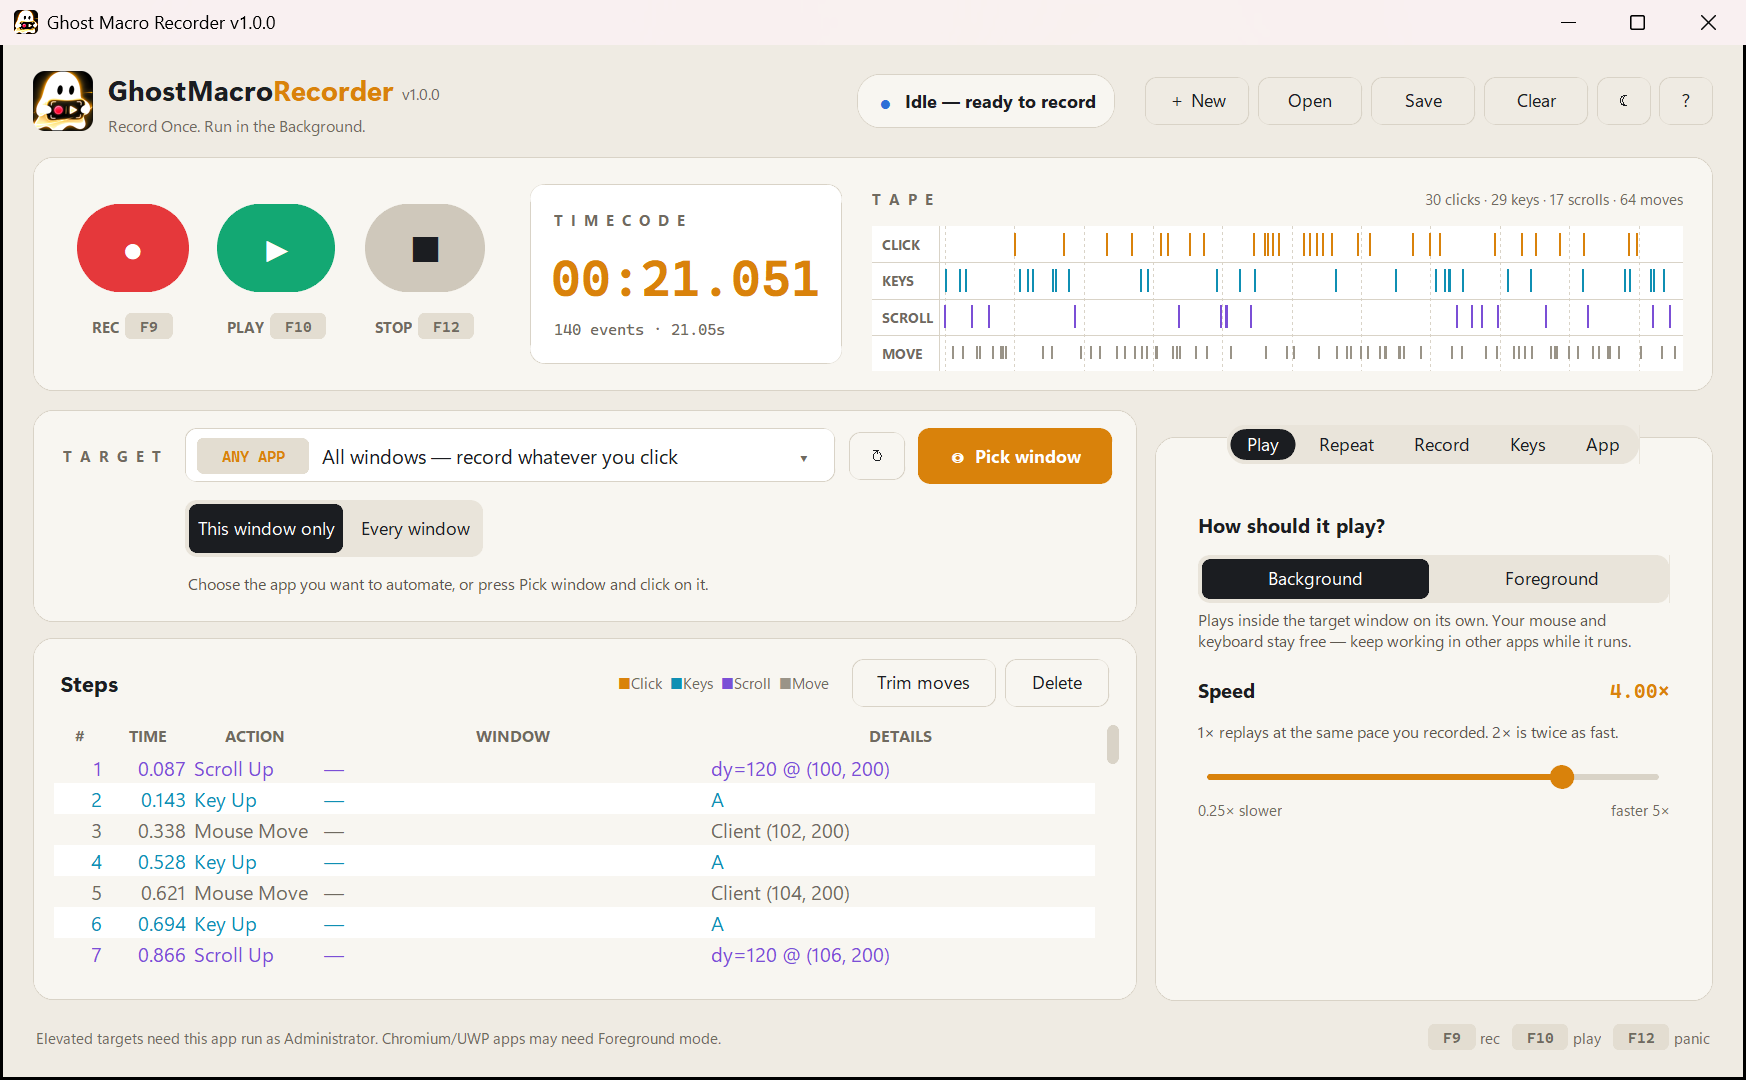
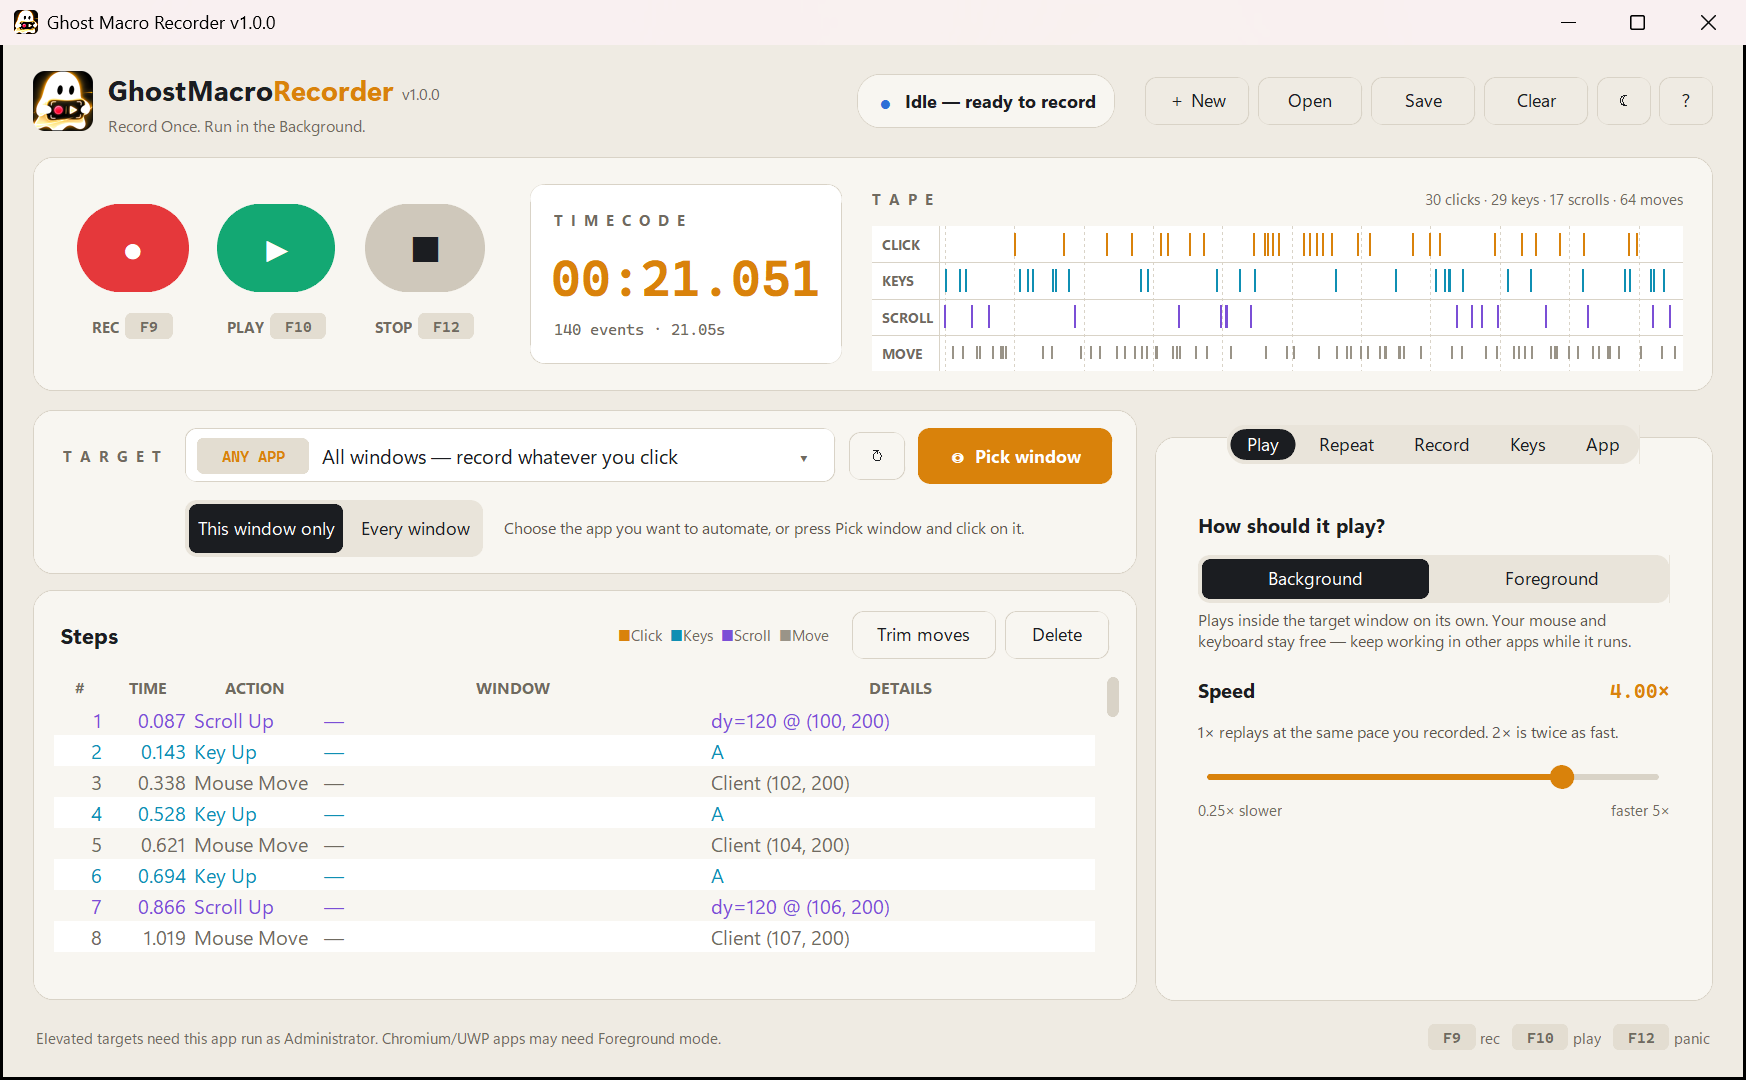
Tidier layout: compact target bar, settings sized to content
- Target bar: scope switch and its hint share one row (no empty gap)
- Settings card sizes to its tallest tab and lines up with the Steps card
- "This run" summary card (macro, steps, target, engine, runs) fills spare
  space under the settings on tall windows

diff --git a/src/ui.py b/src/ui.py
@@ -762,8 +762,11 @@ class MacroRecorderApp(ctk.CTk):
         self.scope_var = ctk.StringVar(
             value="This window only" if self.settings.record_scope == "target" else "Every window"
         )
+        scope_row = ctk.CTkFrame(strip, fg_color="transparent")
+        scope_row.grid(row=1, column=1, columnspan=3, padx=4, pady=(8, 12), sticky="ew")
+        scope_row.grid_columnconfigure(1, weight=1)
         self.seg_scope = ctk.CTkSegmentedButton(
-            strip,
+            scope_row,
             values=["This window only", "Every window"],
             variable=self.scope_var,
             command=self._on_settings_changed,
@@ -771,23 +774,24 @@ class MacroRecorderApp(ctk.CTk):
             corner_radius=8,
             font=self._font(12),
         )
-        self.seg_scope.grid(row=1, column=1, columnspan=3, padx=4, pady=(8, 0), sticky="w")
+        self.seg_scope.grid(row=0, column=0, sticky="w")
         self._style_segmented(self.seg_scope)
 
         self.lbl_target_hint = ctk.CTkLabel(
-            strip,
+            scope_row,
             text="",
             font=self._font(11),
             text_color=C["hint"],
             anchor="w",
             justify="left",
         )
-        self.lbl_target_hint.grid(row=2, column=1, columnspan=3, padx=6, pady=(4, 12), sticky="ew")
-        strip.bind("<Configure>", lambda e: self.lbl_target_hint.configure(
-            wraplength=max(200, int(e.width / self._get_window_scaling()) - 190)), add="+")
+        self.lbl_target_hint.grid(row=0, column=1, padx=(14, 4), sticky="ew")
+        scope_row.bind("<Configure>", lambda e: self.lbl_target_hint.configure(
+            wraplength=max(160, int(e.width / self._get_window_scaling()) - 280)), add="+")
         self._update_target_hint()
 
     def _update_target_hint(self) -> None:
+        self._update_summary()
         t = self._selected_target
         scope_target = self.scope_var.get() == "This window only"
         if t is None:
@@ -913,8 +917,12 @@ class MacroRecorderApp(ctk.CTk):
         self.lbl_empty.place(relx=0.5, rely=0.5, anchor="center")
 
         # --- Settings tabs (fixed, no scrolling) -----------------------------
+        self._right = ctk.CTkFrame(body, fg_color="transparent")
+        self._right.grid(row=0, column=1, padx=(12, 0), sticky="nsew")
+        self._right.grid_columnconfigure(0, weight=1)
+        self._right.grid_rowconfigure(1, weight=1)
         self.tabs = ctk.CTkTabview(
-            body,
+            self._right,
             width=372,
             corner_radius=14,
             fg_color=C["panel"],
@@ -928,7 +936,7 @@ class MacroRecorderApp(ctk.CTk):
             text_color=C["text"],
             command=lambda: self._repaint_segment_text(self.tabs._segmented_button),  # noqa: SLF001
         )
-        self.tabs.grid(row=0, column=1, padx=(12, 0), pady=(0, 0), sticky="nsew")
+        self.tabs.grid(row=0, column=0, sticky="new")
         self.tabs._segmented_button.configure(font=self._font(12))  # noqa: SLF001
         pages = {}
         for name in ("Play", "Repeat", "Record", "Keys", "App"):
@@ -937,6 +945,7 @@ class MacroRecorderApp(ctk.CTk):
             pages[name] = page
         self._repaint_segment_text(self.tabs._segmented_button)  # noqa: SLF001
 
+        self._build_summary_card()
         self._build_play_tab(pages["Play"])
         self._build_repeat_tab(pages["Repeat"])
         self._build_record_tab(pages["Record"])
@@ -944,6 +953,69 @@ class MacroRecorderApp(ctk.CTk):
         self._build_app_tab(pages["App"])
 
     WRAP = 320
+
+    SUMMARY_ROWS = (("macro", "Macro"), ("steps", "Steps"), ("target", "Target"), ("engine", "Plays"),
+                    ("runs", "Runs"))
+
+    def _build_summary_card(self) -> None:
+        """'This run' card: fills the space under the settings with what will actually happen."""
+        card = self._card(self._right)
+        card.grid(row=1, column=0, pady=(10, 0), sticky="nsew")
+        card.grid_columnconfigure(1, weight=1)
+        self.summary_card = card
+        self._summary_shown = True
+        self.after(10, self._place_summary)
+        self._eyebrow(card, "this run").grid(row=0, column=0, columnspan=2, padx=18, pady=(14, 6), sticky="w")
+        self.summary_vals: dict[str, ctk.CTkLabel] = {}
+        for i, (key, label) in enumerate(self.SUMMARY_ROWS, start=1):
+            ctk.CTkLabel(card, text=label, font=self._font(12), text_color=C["hint"], anchor="w").grid(
+                row=i, column=0, padx=(18, 12), pady=3, sticky="nw"
+            )
+            val = ctk.CTkLabel(card, text="—", font=self._font(12, "bold"), text_color=C["text"], anchor="w",
+                               justify="left", wraplength=250)
+            val.grid(row=i, column=1, padx=(0, 16), pady=3, sticky="w")
+            self.summary_vals[key] = val
+        self._right.bind("<Configure>", lambda _e: self._place_summary(), add="+")
+
+    def _place_summary(self) -> None:
+        """Show the summary only when there is real room for it under the settings."""
+        try:
+            scale = self._get_window_scaling()
+            room = (self._right.winfo_height() - self.tabs.winfo_reqheight()) / scale
+            want = room >= 170
+            if want != self._summary_shown:
+                self._summary_shown = want
+                if want:
+                    # Tall window: settings hug their content, "This run" fills the rest
+                    self._right.grid_rowconfigure(0, weight=0)
+                    self._right.grid_rowconfigure(1, weight=1)
+                    self.tabs.grid_configure(sticky="new")
+                    self.summary_card.grid()
+                else:
+                    # Short window: settings card runs to the bottom, lined up with Steps
+                    self.summary_card.grid_remove()
+                    self._right.grid_rowconfigure(1, weight=0)
+                    self._right.grid_rowconfigure(0, weight=1)
+                    self.tabs.grid_configure(sticky="nsew")
+        except Exception:
+            pass
+
+    def _update_summary(self) -> None:
+        if not hasattr(self, "summary_vals"):
+            return
+        v = self.summary_vals
+        events = self.macro.events
+        name = self._macro_file.stem if getattr(self, "_macro_file", None) else (
+            "Untitled (not saved)" if events else "Nothing recorded yet")
+        if events and getattr(self, "_dirty", False) and getattr(self, "_macro_file", None):
+            name += "  •  unsaved changes"
+        v["macro"].configure(text=name)
+        v["steps"].configure(text=f"{len(events):,} steps · {fmt_duration(self.macro.duration)} long" if events else "—")
+        t = self._selected_target
+        v["target"].configure(text=(t.process_name if t else "Any app you click"))
+        mode = "In the background" if self.settings.playback_mode == "background" else "With your real mouse & keys"
+        v["engine"].configure(text=f"{mode} · {self.settings.speed:g}× speed")
+        v["runs"].configure(text=getattr(self, "_run_summary", "—"))
 
     def _setting_label(self, parent, text: str, row: int, sub: str = "", top: int = 10) -> Optional[ctk.CTkLabel]:
         ctk.CTkLabel(parent, text=text, font=self._font(13, "bold"), text_color=C["text"]).grid(
@@ -1375,6 +1447,18 @@ class MacroRecorderApp(ctk.CTk):
         if not hasattr(self, "lbl_estimate"):
             return
         events = self.macro.events
+        if self.settings.run_limit_mode == "time":
+            self._run_summary = f"Keeps repeating for {fmt_duration(self.settings.run_duration)}"
+        elif self.settings.repeat_count == 0:
+            self._run_summary = "Repeats until you press Stop"
+        else:
+            n = self.settings.repeat_count
+            self._run_summary = f"{n} time{'s' if n != 1 else ''}"
+        if events and self.settings.run_limit_mode == "count" and self.settings.repeat_count:
+            n = self.settings.repeat_count
+            total = n * self.macro.duration / max(0.05, self.settings.speed) + (n - 1) * self.settings.loop_delay
+            self._run_summary += f" · about {fmt_duration(total)}"
+        self._update_summary()
         if not events:
             self.lbl_estimate.configure(text="Record a macro to see a run estimate.")
             return
@@ -1918,6 +2002,7 @@ class MacroRecorderApp(ctk.CTk):
         self._dirty = dirty
         name = self._macro_file.stem if self._macro_file else ("Untitled macro" if self.macro.events else "")
         mark = " •" if dirty else ""
+        self._update_summary()
         self.title(f"{name}{mark} — {APP_NAME}" if name else f"{APP_NAME} v{APP_VERSION}")
 
     def _confirm_discard(self, action: str) -> bool:
@@ -2083,12 +2168,18 @@ class MacroRecorderApp(ctk.CTk):
             if have <= 1:
                 self.after(300, self._fit_min_size)
                 return
+            # 1) Size the settings card to its tallest tab (no big empty area underneath)
+            header = self.tabs.winfo_height() - have
+            self.tabs.configure(height=int((header + need) / scale) + 14)
+            self.update_idletasks()
+            # 2) The window may not get shorter than what that card needs
             win_h = self.winfo_height() / scale
-            min_h = int(win_h - (have - need) / scale + 12)
-            min_w = self.MIN_W
-            self.minsize(min_w, min_h)
+            slack = (self._right.winfo_height() - self.tabs.winfo_reqheight()) / scale
+            min_h = int(win_h - slack + 4)
+            self.minsize(self.MIN_W, min_h)
             if win_h < min_h:
                 self.geometry(f"{int(self.winfo_width() / scale)}x{min_h}")
+            self._place_summary()
         except Exception:
             pass
 
